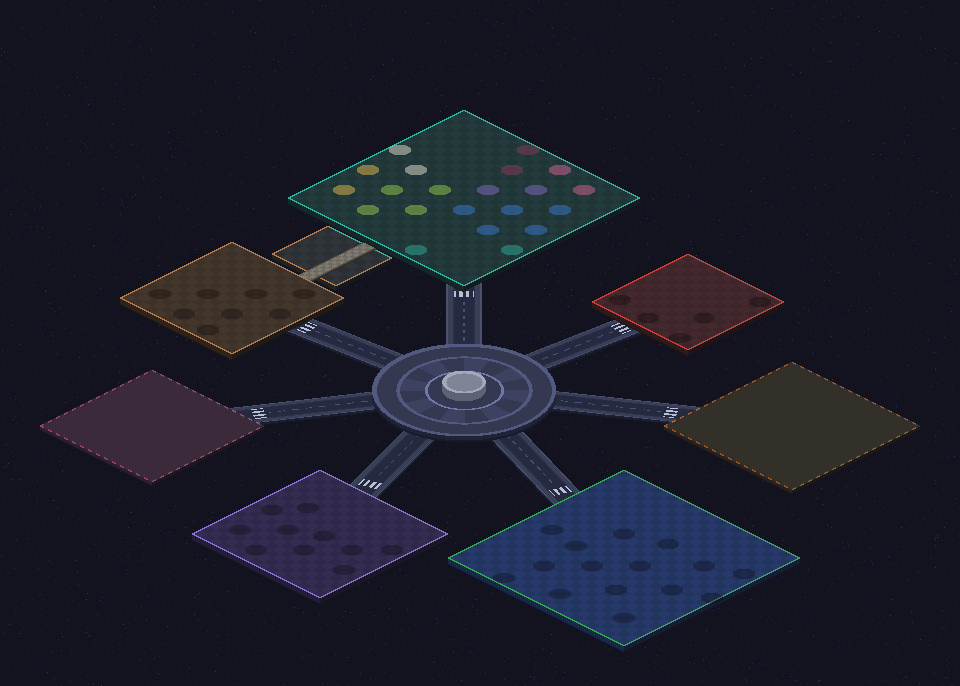
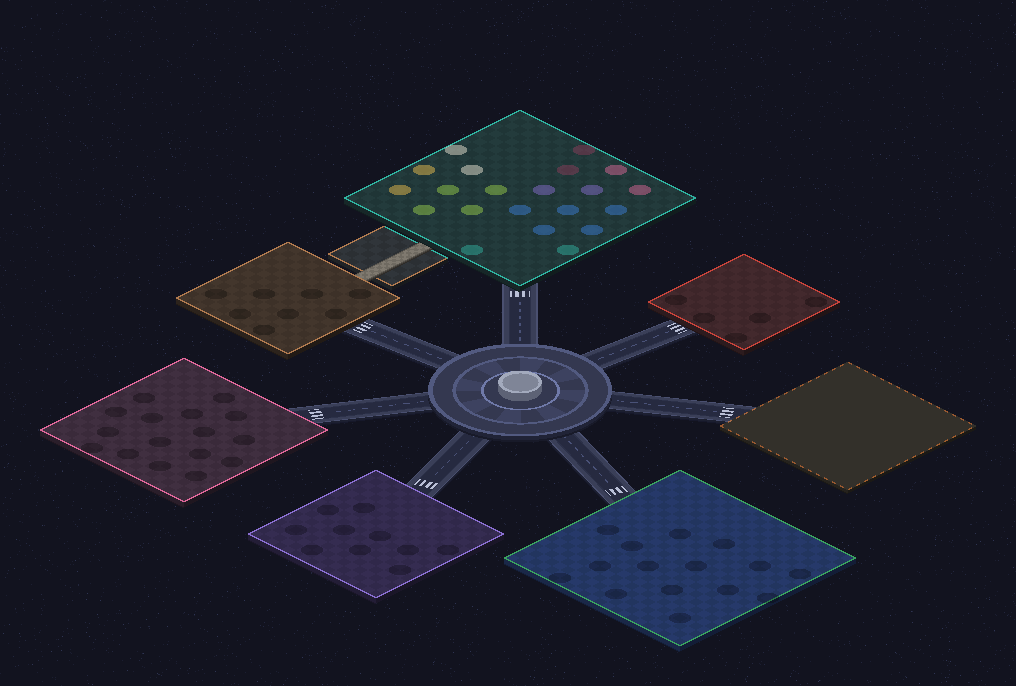
Apre l'Atelier: 16 skill e lo Studio Canva
Pixel art e foto, web e interfacce, e le 7 skill del plugin Canva col loro
bollino; lo Studio Canva è il loft con i lucernari in fondo al quartiere.
Cavalletti e aiuole ai bordi. Resta in cantiere solo l'Officina.

diff --git a/citta.js b/citta.js
@@ -30,9 +30,11 @@ const INFRA = {
                desc: "La tua casella Gmail: le skill con la busta leggono, smistano e preparano la posta. L'invio parte solo se lo chiedi." },
   plaud:     { nome: "Connettore Plaud", colore: "#ffb38a", edificio: "plaud", titolo: "Studio di registrazione", segno: "capsula del NotePin in testa",
                desc: "Il registratore Plaud: le skill con la capsula usano le trascrizioni delle riunioni. Lo studio sta tra Università e Impresa perché serve a lezioni e riunioni." },
+  canva:     { nome: "Connettore Canva", colore: "#00c4cc", edificio: "studio", titolo: "Studio Canva", segno: "bollino turchese e viola sul fianco",
+               desc: "I tuoi design Canva: le skill col bollino li cercano, li leggono, li modificano e li ridimensionano per i social." },
 };
 const EDIFICIO_INFRA = { torre: "dati", banca: "broker", archivio: "edgar", biblioteca: "notion", palazzo: "skills", ufficio: "impostazioni",
-                         posta: "gmail", plaud: "plaud" };
+                         posta: "gmail", plaud: "plaud", studio: "canva" };
 // Impresa: un colore per ufficio, lo stesso del cordino dei mostriciattoli e del piano nella torre (disegno/mostri.py)
 const UFFICI = { Reception: "#2fb3a0", Documenti: "#3b7dd8", Commerciale: "#8a6fd1", Marketing: "#e0679a",
                  Prodotto: "#9bd04a", Investitori: "#f2c14e", Legale: "#8e3a59", Direzione: "#f1ead8" };
